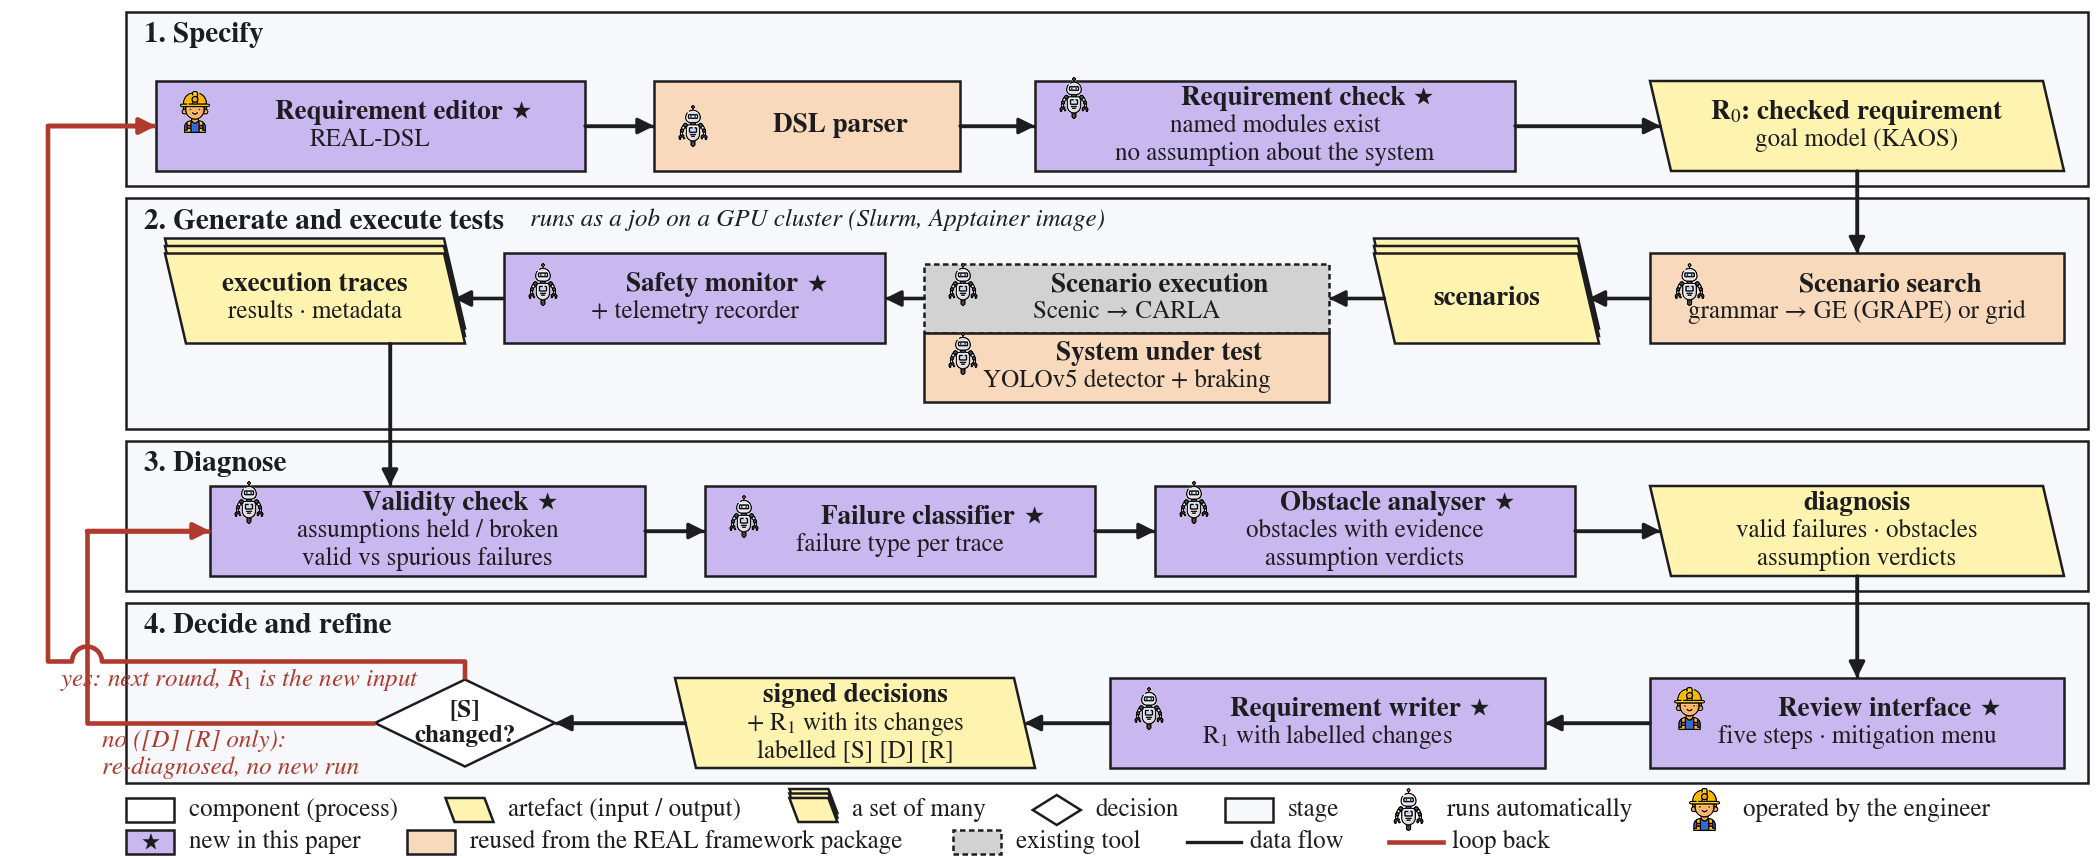
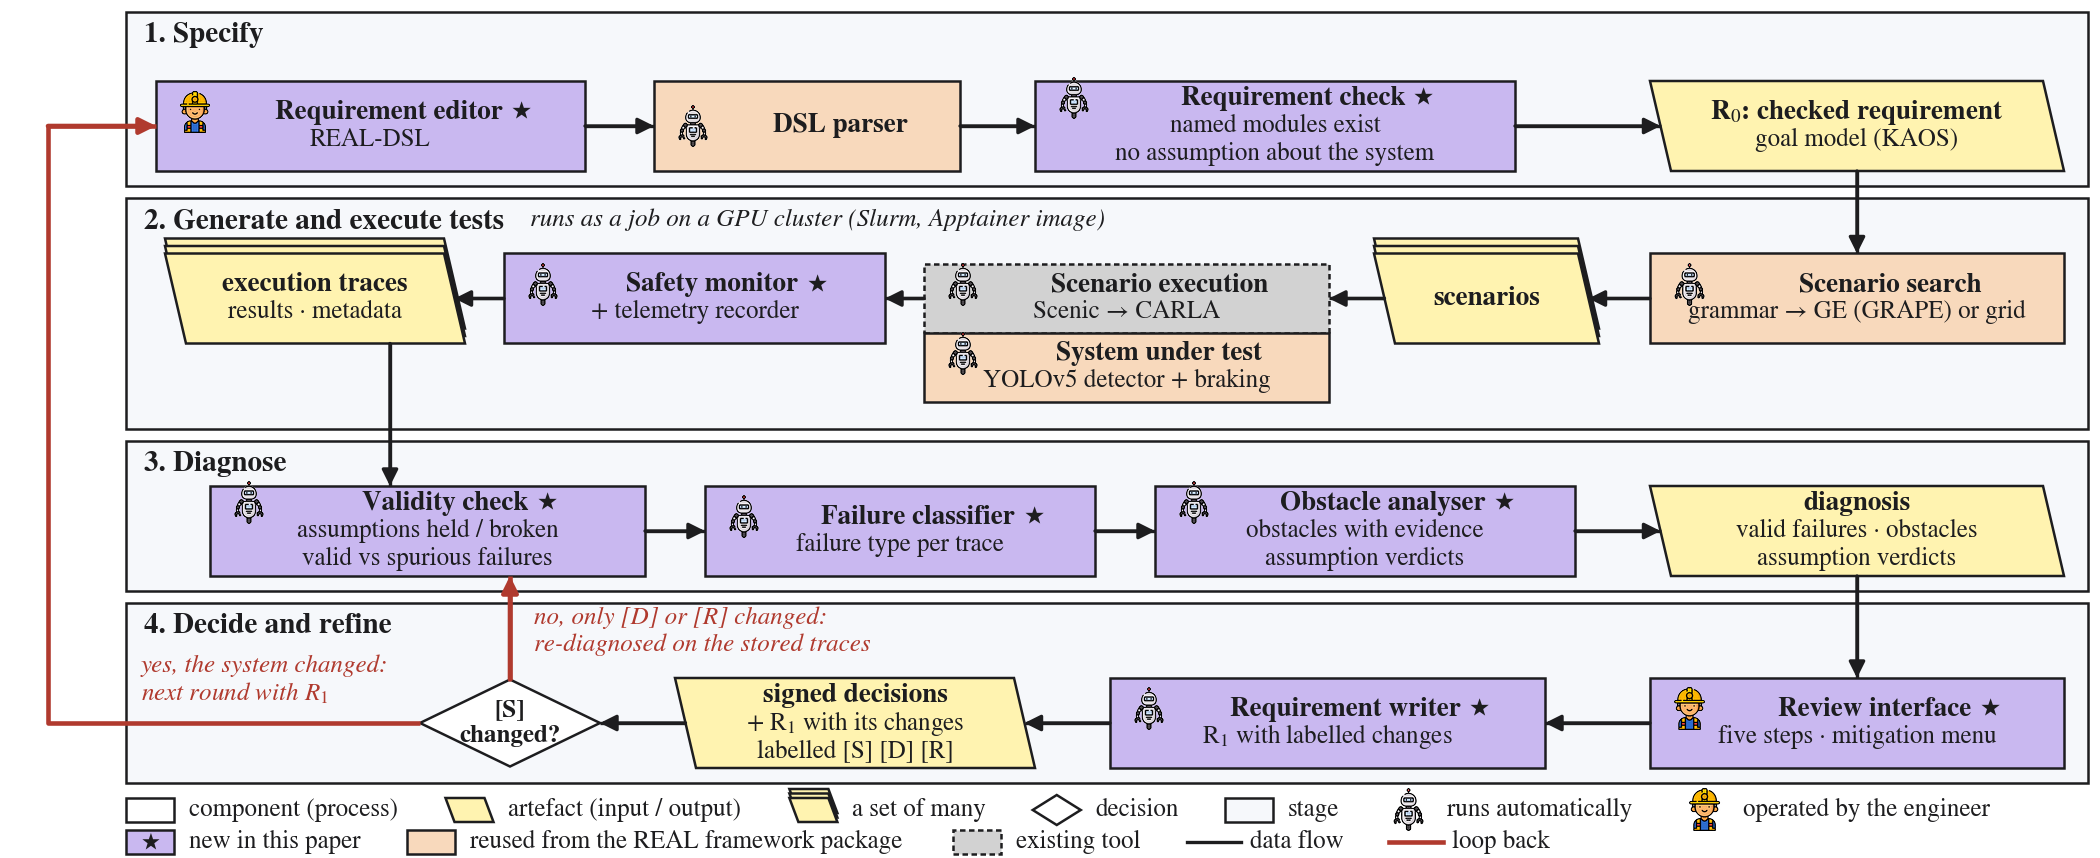
Fig. 1 v2: decision branches re-routed without crossing; labels inside the frame

diff --git a/docs/paper/latex/figures/make_fig1_v2.py b/docs/paper/latex/figures/make_fig1_v2.py
@@ -196,27 +196,24 @@ y, yc = 0.30, 0.45
 component(5.50, y, 1.38, BH, "new", "engineer", "Review interface", ["five steps · mitigation menu"])
 component(3.70, y, 1.45, BH, "new", "robot", "Requirement writer", [r"R$_1$ with labelled changes"])
 artefact(2.25, y, 1.20, BH, "signed decisions", [r"+ R$_1$ with its changes", "labelled [S] [D] [R]"])
-DX, DY, DHW, DHH = 1.55, yc, 0.30, 0.145
+DX, DY, DHW, DHH = 1.70, yc, 0.30, 0.145
 decision(DX, DY, DHW, DHH, ["[S]", "changed?"])
 arrow([(5.50, yc), (5.15, yc)])
 arrow([(3.70, yc), (3.45 - SKEW / 2, yc)])
 arrow([(2.25 + SKEW / 2, yc), (DX + DHW, yc)])
 arrow([(6.19, 0.94), (6.19, y + BH)])              # the diagnosis opens in the review interface
 
-# ---- the two loops back (red) from the decision ---------------------------
-# no: only [D] or [R] changed -> re-diagnosed on the stored traces (into stage 3)
-arrow([(DX - DHW, DY), (0.29, DY), (0.29, 1.09), (0.70, 1.09)], color=LOOP, lw=1.1)
-text(0.34, 0.39, "no ([D] [R] only):", style="italic", color=LOOP, va="center", fit=DX - DHW - 0.38)
-text(0.34, 0.30, "re-diagnosed, no new run", style="italic", color=LOOP, va="center", fit=DX - DHW - 0.38)
-# yes: the system changed -> next round from stage 1, R1 is the new input
-YES_Y = 0.655
-import math
-jump = [(0.29 + 0.05 * math.cos(math.radians(a)), YES_Y + 0.05 * math.sin(math.radians(a)))
-        for a in range(0, 181, 15)]                 # a line-jump over the "no" line: they do not connect
-arrow([(DX, DY + DHH), (DX, YES_Y), (0.34, YES_Y)] + jump + [(0.24, YES_Y), (0.16, YES_Y),
-       (0.16, 2.44), (0.52, 2.44)], color=LOOP, lw=1.1)
-text(0.20, YES_Y - 0.06, r"yes: next round, R$_1$ is the new input", style="italic", color=LOOP,
-     va="center", fit=DX - 0.26)
+# ---- the two branches of the decision (red loops) --------------------------
+# no: only [D] or [R] changed -> stage 3 re-diagnoses the stored traces; the
+# validity check sits directly above the diamond, so the branch goes straight up
+arrow([(DX, DY + DHH), (DX, 0.94)], color=LOOP, lw=1.1)
+text(DX + 0.08, 0.80, "no, only [D] or [R] changed:", style="italic", color=LOOP, va="center", fit=1.5)
+text(DX + 0.08, 0.71, "re-diagnosed on the stored traces", style="italic", color=LOOP, va="center", fit=1.5)
+# yes: the system changed -> next round from stage 1 with R1 as the input; the
+# only line in the left margin, so nothing crosses
+arrow([(DX - DHW, DY), (0.16, DY), (0.16, 2.44), (0.52, 2.44)], color=LOOP, lw=1.1)
+text(0.47, 0.64, "yes, the system changed:", style="italic", color=LOOP, va="center", fit=DX - DHW - 0.50)
+text(0.47, 0.55, r"next round with R$_1$", style="italic", color=LOOP, va="center", fit=DX - DHW - 0.50)
 
 # ------------------------------------------------------------------ legend, two lines
 def legend_item(lx, ly, draw, label):

diff --git a/docs/paper/latex/figures/architecture_diagram_v2.md b/docs/paper/latex/figures/architecture_diagram_v2.md
@@ -199,9 +199,11 @@ detector and controller run in the loop.
   stage. Rounded boxes dropped (a pill is a terminator in the convention).
 - **The branch after stage 4 is drawn as a decision** `[S] changed?`:
   *yes* → next round from stage 1 (R₁ is the new input); *no* ([D] [R] only)
-  → stage 3 re-diagnoses the stored traces. The two red loop lines cross once
-  outside the frames; the crossing carries a **line-jump** (they do not
-  connect).
+  → stage 3 re-diagnoses the stored traces. Routing (revised the same day
+  after the owner found the corner cluttered): the diamond sits directly
+  under the Validity check, so the *no* branch goes **straight up** into it
+  and the *yes* branch is the only line in the left margin; nothing crosses,
+  and both labels sit horizontally inside the frame beside their line.
 - **Actors inside the box they index, one icon size (0.14 in):** the robot
   in every component that runs automatically; the engineer in the two
   components a person operates (Requirement editor, Review interface). No
